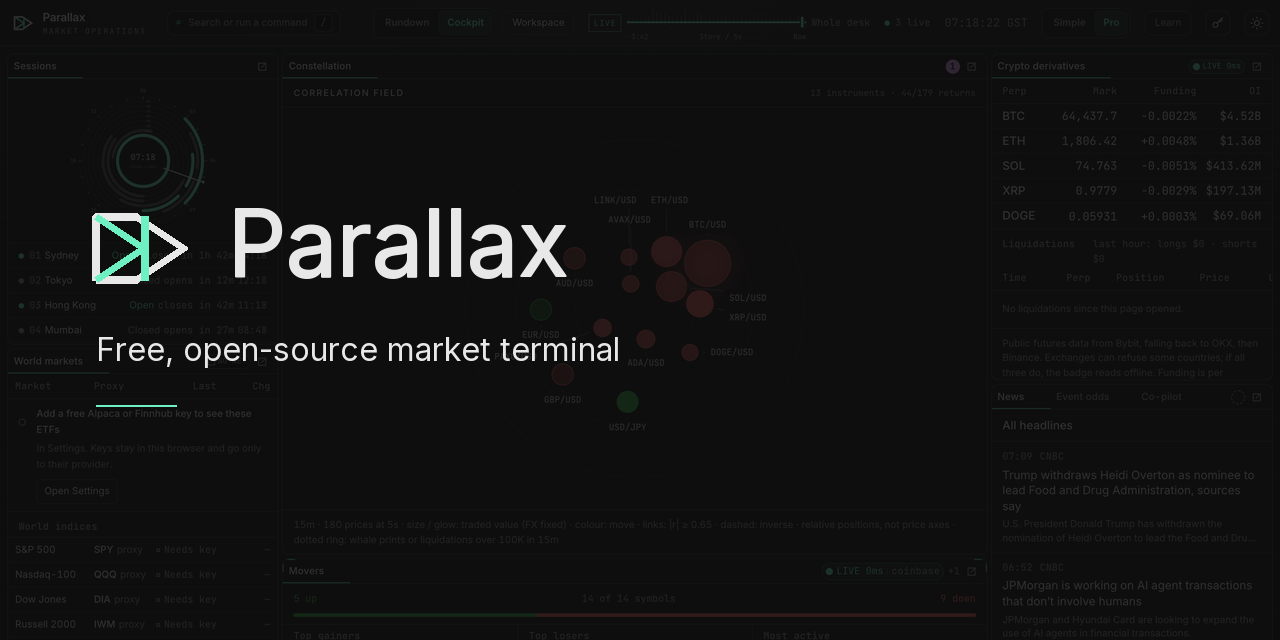
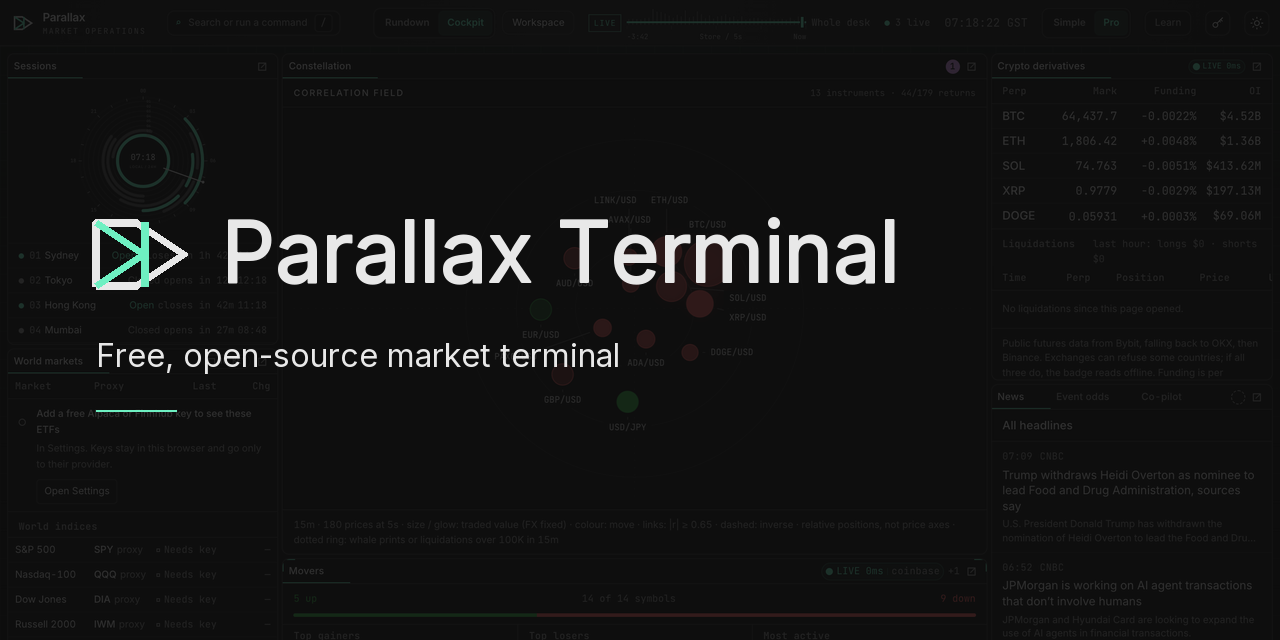
feat: Parallax Terminal at parallax-terminal.pages.dev
- New main address parallax-terminal.pages.dev (Pages project created with --force: wrangler 4.162 otherwise makes a Worker without a pages.dev address). Deploy goes to it plus open-terminal and parallax-markets until 18 Dec 2026.
- Product name "Parallax Terminal" in the page title, manifest name, Open Graph/Twitter tags (with og:site_name and og:url), README title and the social card; "Parallax" stays in the top bar and logo lockup. Tagline "Free, open-source market terminal"; the "more perspective" line is gone.
- Both earlier addresses show the move banner with "Move my layout and keys"; open-terminal mentions the old name, parallax-markets only says it has moved. The new address accepts a handoff from either and posts "ready" to each at its exact origin.
- Worker allows the new origin and its previews; SEC user agent names the new address. Tests: handoff from both old addresses, deployed default origins.

Changed region(s): [[0.0625, 0.3125, 0.7188, 0.4688], [0.0625, 0.5312, 0.5, 0.5938], [0.0625, 0.625, 0.125, 0.6562]]

diff --git a/apps/web/index.html b/apps/web/index.html
@@ -3,32 +3,33 @@
   <head>
     <meta charset="UTF-8" />
     <meta name="viewport" content="width=device-width, initial-scale=1.0" />
-    <title>Parallax</title>
+    <title>Parallax Terminal</title>
     <meta
       name="description"
       content="A free market terminal in your browser: what's happening in markets right now, with every number's source and age."
     />
     <meta property="og:type" content="website" />
-    <meta property="og:url" content="https://parallax-markets.pages.dev/" />
-    <meta property="og:title" content="Parallax — Free, open-source market terminal" />
+    <meta property="og:site_name" content="Parallax Terminal" />
+    <meta property="og:url" content="https://parallax-terminal.pages.dev/" />
+    <meta property="og:title" content="Parallax Terminal" />
     <meta
       property="og:description"
-      content="One market. More perspective. Live markets, a plain-language daily brief, and a full cockpit. Free and open source."
+      content="Free, open-source market terminal: live markets, a plain-language daily brief and a full cockpit, in your browser. Every number shows its source and age."
     />
-    <meta property="og:image" content="https://parallax-markets.pages.dev/social-preview.png" />
+    <meta property="og:image" content="https://parallax-terminal.pages.dev/social-preview.png" />
     <meta property="og:image:width" content="1280" />
     <meta property="og:image:height" content="640" />
     <meta
       property="og:image:alt"
-      content="Parallax — Free, open-source market terminal over Mission Control"
+      content="Parallax Terminal: free, open-source market terminal, over its Mission Control screen"
     />
     <meta name="twitter:card" content="summary_large_image" />
-    <meta name="twitter:title" content="Parallax — Free, open-source market terminal" />
+    <meta name="twitter:title" content="Parallax Terminal" />
     <meta
       name="twitter:description"
-      content="One market. More perspective. Live markets, a plain-language daily brief, and a full cockpit. Free and open source."
+      content="Free, open-source market terminal: live markets, a plain-language daily brief and a full cockpit, in your browser. Every number shows its source and age."
     />
-    <meta name="twitter:image" content="https://parallax-markets.pages.dev/social-preview.png" />
+    <meta name="twitter:image" content="https://parallax-terminal.pages.dev/social-preview.png" />
     <link rel="manifest" href="/manifest.webmanifest" />
     <meta name="theme-color" content="#0d0d0d" media="(prefers-color-scheme: dark)" />
     <meta name="theme-color" content="#f0f0f0" media="(prefers-color-scheme: light)" />

diff --git a/apps/web/src/app/rename.test.ts b/apps/web/src/app/rename.test.ts
@@ -2,7 +2,9 @@ import { afterEach, beforeEach, describe, expect, it, vi } from 'vitest';
 import {
   HANDOFF_TIMEOUT_MS,
   NEW_ORIGIN,
-  OLD_ORIGIN,
+  OLD_ORIGINS,
+  OPEN_TERMINAL_ORIGIN,
+  isOldAddress,
   handoffEntries,
   migrateStorage,
   receiveHandoff,
@@ -100,7 +102,8 @@ describe('handoff between the old and new address', () => {
     vi.useRealTimers();
   });
 
-  it('carries saved entries from the old address to the new one', async () => {
+  it.each(OLD_ORIGINS)('carries saved entries from %s to the new address', async (OLD_ORIGIN) => {
+    expect(isOldAddress(OLD_ORIGIN)).toBe(true);
     const old = new FakeWindow(`${OLD_ORIGIN}/`);
     localStorage.setItem('parallax:layout', '{"dock":2}');
     expect(sendHandoff(asWindow(old))).toBe(true);
@@ -110,7 +113,10 @@ describe('handoff between the old and new address', () => {
 
     localStorage.clear();
     const moved = receiveHandoff(asWindow(fresh));
-    expect(old.posted).toEqual([{ data: { type: 'parallax:handoff-ready' }, origin: OLD_ORIGIN }]);
+    // "Ready" goes to each old address at its exact origin; only the opener's own one arrives.
+    expect(old.posted).toEqual(
+      OLD_ORIGINS.map((origin) => ({ data: { type: 'parallax:handoff-ready' }, origin })),
+    );
 
     // The old window answers the new one only, at its exact origin.
     old.deliver(old.posted[0]?.data, NEW_ORIGIN, fresh);
@@ -129,19 +135,20 @@ describe('handoff between the old and new address', () => {
   });
 
   it('ignores messages from any other origin or window, then gives up', async () => {
-    const opener = new FakeWindow(`${OLD_ORIGIN}/`);
+    const opener = new FakeWindow(`${OPEN_TERMINAL_ORIGIN}/`);
     const fresh = new FakeWindow(`${NEW_ORIGIN}/?handoff=1`);
     fresh.opener = opener;
     const moved = receiveHandoff(asWindow(fresh));
     const entries = { type: 'parallax:handoff-entries', entries: { 'parallax:keys': 'stolen' } };
     fresh.deliver(entries, 'https://evil.example', opener);
-    fresh.deliver(entries, OLD_ORIGIN, new FakeWindow('https://other/'));
+    fresh.deliver(entries, OPEN_TERMINAL_ORIGIN, new FakeWindow('https://other/'));
     vi.advanceTimersByTime(HANDOFF_TIMEOUT_MS);
     await expect(moved).resolves.toBe(false);
     expect(localStorage.getItem('parallax:keys')).toBeNull();
   });
 
   it('does nothing on an ordinary visit', () => {
+    expect(isOldAddress(NEW_ORIGIN)).toBe(false);
     expect(receiveHandoff(asWindow(new FakeWindow(`${NEW_ORIGIN}/`)))).toBeNull();
     expect(withoutHandoff(`${NEW_ORIGIN}/?handoff=1#w=abc`)).toBe(`${NEW_ORIGIN}/#w=abc`);
   });

diff --git a/apps/web/src/app/rename.ts b/apps/web/src/app/rename.ts
@@ -1,11 +1,16 @@
 import { isObject } from '../feeds/adapters/parse';
 
 /**
- * The rename (18 Nov 2026): Open Terminal became Parallax, at a new address. The old address
- * serves the same app with a banner until 18 Dec 2026.
+ * The move (18 Nov 2026): Open Terminal became Parallax Terminal, at a new address. Both earlier
+ * addresses (the original open-terminal and the short-lived parallax-markets) serve the same app
+ * with a banner until 18 Dec 2026.
  */
-export const NEW_ORIGIN = 'https://parallax-markets.pages.dev';
-export const OLD_ORIGIN = 'https://open-terminal.pages.dev';
+export const NEW_ORIGIN = 'https://parallax-terminal.pages.dev';
+export const OPEN_TERMINAL_ORIGIN = 'https://open-terminal.pages.dev';
+export const OLD_ORIGINS: readonly string[] = [
+  OPEN_TERMINAL_ORIGIN,
+  'https://parallax-markets.pages.dev',
+];
 export const OLD_ADDRESS_CLOSES = '18 December 2026';
 
 const OLD_PREFIX = 'open-terminal:';
@@ -37,7 +42,7 @@ export function migrateStorage(storage: Storage): void {
 }
 
 export function isOldAddress(origin: string): boolean {
-  return origin === OLD_ORIGIN;
+  return OLD_ORIGINS.includes(origin);
 }
 
 /** This app's saved entries (layout, preferences, alerts, keys), to carry to the new address. */
@@ -97,7 +102,7 @@ export function receiveHandoff(win: Window = window): Promise<boolean> | null {
       resolve(moved);
     };
     const onMessage = (event: MessageEvent) => {
-      if (event.origin !== OLD_ORIGIN || event.source !== opener) return;
+      if (!OLD_ORIGINS.includes(event.origin) || event.source !== opener) return;
       const entries = handoffEntries(event.data);
       if (!entries) return;
       for (const [key, value] of entries) win.localStorage.setItem(key, value);
@@ -107,7 +112,8 @@ export function receiveHandoff(win: Window = window): Promise<boolean> | null {
     const timer = win.setTimeout(() => {
       finish(false);
     }, HANDOFF_TIMEOUT_MS);
-    opener.postMessage({ type: READY }, OLD_ORIGIN);
+    // The opener is one of the old addresses; each post reaches it only at its own origin.
+    for (const origin of OLD_ORIGINS) opener.postMessage({ type: READY }, origin);
   });
 }
 

diff --git a/apps/edge/src/index.test.ts b/apps/edge/src/index.test.ts
@@ -5,9 +5,9 @@ import fed from './fixtures/fed.xml?raw';
 import { handle, originAllowed } from './index';
 import { filterNews, type Env } from './routes';
 
-const SITE = 'https://parallax-markets.pages.dev';
+const SITE = 'https://parallax-terminal.pages.dev';
 const ENV: Env = {
-  ALLOWED_ORIGINS: `http://localhost:5173,${SITE},https://*.parallax-markets.pages.dev`,
+  ALLOWED_ORIGINS: `http://localhost:5173,${SITE},https://*.parallax-terminal.pages.dev`,
   FRED_API_KEY: 'fred-secret-key',
   SEC_USER_AGENT: 'Parallax admin@example.com',
 };
@@ -45,15 +45,20 @@ const get = (path: string, origin: string | null = SITE) =>
 describe('origin check', () => {
   it('allows the listed origins and their preview subdomains only', () => {
     expect(originAllowed(SITE, ENV.ALLOWED_ORIGINS)).toBe(true);
-    expect(originAllowed('https://v2-visual.parallax-markets.pages.dev', ENV.ALLOWED_ORIGINS)).toBe(
-      true,
-    );
-    expect(originAllowed('https://evil-parallax-markets.pages.dev', ENV.ALLOWED_ORIGINS)).toBe(
+    expect(
+      originAllowed('https://v2-visual.parallax-terminal.pages.dev', ENV.ALLOWED_ORIGINS),
+    ).toBe(true);
+    expect(originAllowed('https://evil-parallax-terminal.pages.dev', ENV.ALLOWED_ORIGINS)).toBe(
       false,
     );
-    expect(originAllowed('https://parallax-markets.pages.dev.evil.com', ENV.ALLOWED_ORIGINS)).toBe(
+    expect(originAllowed('https://parallax-terminal.pages.dev.evil.com', ENV.ALLOWED_ORIGINS)).toBe(
       false,
     );
+    // The deployed default keeps both earlier addresses until 18 Dec 2026.
+    for (const old of ['https://parallax-markets.pages.dev', 'https://open-terminal.pages.dev']) {
+      expect(originAllowed(old, undefined)).toBe(true);
+    }
+    expect(originAllowed(SITE, undefined)).toBe(true);
   });
 
   it('refuses requests without an allowed Origin', async () => {

diff --git a/apps/web/src/app/RenameBanner.tsx b/apps/web/src/app/RenameBanner.tsx
@@ -1,16 +1,20 @@
 import { useState } from 'react';
 import '../design/rename.css';
-import { NEW_ORIGIN, OLD_ADDRESS_CLOSES, sendHandoff } from './rename';
+import { NEW_ORIGIN, OLD_ADDRESS_CLOSES, OPEN_TERMINAL_ORIGIN, sendHandoff } from './rename';
 
 const NEW_HOST = new URL(NEW_ORIGIN).host;
 
-/** Shown only at the old address: where Parallax lives now, and a way to take your setup there. */
+/** Shown only at an old address: where Parallax Terminal lives now, and a way to take your setup there. */
 export function RenameBanner() {
   const [blocked, setBlocked] = useState(false);
+  // Visitors of the original address knew the old name; the interim address only moved.
+  const renamed = window.location.origin === OPEN_TERMINAL_ORIGIN;
   return (
     <div className="rename-banner" role="region" aria-label="New address">
       <p>
-        Open Terminal is now <strong>Parallax</strong>, at{' '}
+        {renamed ? 'Open Terminal is now ' : ''}
+        <strong>Parallax Terminal</strong>
+        {renamed ? ', at ' : ' has moved to '}
         <a href={NEW_ORIGIN} target="_blank" rel="noreferrer">
           {NEW_HOST}
         </a>

diff --git a/apps/edge/src/index.ts b/apps/edge/src/index.ts
@@ -19,7 +19,7 @@ export const CACHE_SECONDS = { news: 120, fred: 3600, sec: 600, calendar: 21_600
 type Route = keyof typeof CACHE_SECONDS;
 
 const DEFAULT_ORIGINS =
-  'http://localhost:5173,http://127.0.0.1:5173,https://parallax-markets.pages.dev,https://*.parallax-markets.pages.dev,https://open-terminal.pages.dev,https://*.open-terminal.pages.dev';
+  'http://localhost:5173,http://127.0.0.1:5173,https://parallax-terminal.pages.dev,https://*.parallax-terminal.pages.dev,https://parallax-markets.pages.dev,https://*.parallax-markets.pages.dev,https://open-terminal.pages.dev,https://*.open-terminal.pages.dev';
 
 /** Whether `origin` is on the list; `https://*.host` allows any subdomain (Pages previews). */
 export function originAllowed(origin: string, list: string | undefined): boolean {

diff --git a/apps/edge/src/routes.ts b/apps/edge/src/routes.ts
@@ -80,7 +80,8 @@ export async function allNews(env: Env): Promise<RouteResult> {
       try {
         const response = await fetch(feed.url, {
           headers: {
-            'User-Agent': env.SEC_USER_AGENT ?? 'Parallax (+https://parallax-markets.pages.dev)',
+            'User-Agent':
+              env.SEC_USER_AGENT ?? 'Parallax Terminal (+https://parallax-terminal.pages.dev)',
             Accept: 'application/rss+xml, application/xml',
           },
         });

diff --git a/docs/architecture.md b/docs/architecture.md
@@ -830,21 +830,24 @@ meetings are not FRED releases and are not listed.
 
 ## Addresses and the rename
 
-Open Terminal became Parallax on 18 Nov 2026, at `https://parallax-markets.pages.dev`
-(`parallax.pages.dev` was taken). `deploy.yml` deploys the same build to two Pages projects,
-`parallax-markets` and the old `open-terminal`, until 18 Dec 2026; the Worker allows both origins
-until then. `app/rename.ts` holds the addresses and the two moves:
+Open Terminal became Parallax Terminal on 18 Nov 2026, at `https://parallax-terminal.pages.dev`
+(`parallax.pages.dev` was taken). For a few hours that day it lived at `parallax-markets.pages.dev`.
+`deploy.yml` deploys the same build to three Pages projects, `parallax-terminal` and the two
+earlier `open-terminal` and `parallax-markets`, until 18 Dec 2026; the Worker allows all three
+origins until then. `app/rename.ts` holds the addresses and the two moves:
 
 - **Same address.** `app/storageMigration.ts` is the first import of `main.tsx`, so before any
   store reads its saved state, every `open-terminal:*` entry in local storage becomes
   `parallax:*` (an entry already under the new name wins). The theme script in `index.html`
   reads the old theme key too, for the first paint. Workspace files and share links made before
   the rename (`app: 'open-terminal'`) still load.
-- **New address.** Storage belongs to one address, so the new site starts empty. At the old
-  address a banner above the top bar links to the new one and offers "Move my layout and keys":
-  it opens `parallax-markets.pages.dev/?handoff=1`, which (before rendering, so before anything
-  saves) posts "ready" to its opener at the old origin. The old page answers that window only, at
-  the new origin exactly, with its `parallax:*` entries; the new page accepts them only from its
-  opener at the old origin, only `parallax:*` keys with string values, saves them and reloads.
+- **New address.** Storage belongs to one address, so the new site starts empty. At either earlier
+  address a banner above the top bar links to the new one and offers "Move my layout and keys"
+  (at open-terminal it also gives the old name): it opens `parallax-terminal.pages.dev/?handoff=1`,
+  which (before rendering, so before anything saves) posts "ready" to its opener at each earlier
+  origin, so only the real opener's own origin receives it. The old page answers that window only,
+  at the new origin exactly, with its `parallax:*` entries; the new page accepts them only from
+  its opener at an earlier origin, only `parallax:*` keys with string values, saves them and
+  reloads.
   After 5 s without an answer it opens as usual. Keys move window to window inside the same
   browser and never cross the network.

diff --git a/README.md b/README.md
@@ -1,18 +1,18 @@
 <p>
   <picture>
     <source media="(prefers-color-scheme: dark)" srcset="docs/brand/parallax-mark.svg" />
-    <img src="docs/brand/parallax-mark-light.svg" alt="Parallax logo" width="64" height="64" />
+    <img src="docs/brand/parallax-mark-light.svg" alt="Parallax Terminal logo" width="64" height="64" />
   </picture>
 </p>
 
-# Parallax
+# Parallax Terminal
 
 A free, open-source market terminal that runs entirely in your browser:
 live crypto, FX, US stocks on your own key, rates and macro, news and
 filings — in one dockable cockpit where every number shows its source and
 its age.
 
-**Live:** <https://parallax-markets.pages.dev> — no account, no install. Crypto,
+**Live:** <https://parallax-terminal.pages.dev> — no account, no install. Crypto,
 FX, perpetual futures, macro and news work the moment the page loads.
 
 > Parallax shows market data as delivered by its public sources. It is
@@ -149,7 +149,7 @@ Two limits, stated plainly:
 
 ## Using it
 
-1. Open <https://parallax-markets.pages.dev>. The Rundown opens first; **Open
+1. Open <https://parallax-terminal.pages.dev>. The Rundown opens first; **Open
    the full cockpit** shows the panels (Simple or Pro, switched in the top bar).
 2. For US stocks, open **Settings** (the key icon) and paste a free
    [Alpaca](https://alpaca.markets) or [Finnhub](https://finnhub.io) key.
@@ -205,6 +205,6 @@ their licences (TradingView's chart library, the Inter and JetBrains Mono
 fonts, React, dockview, zustand) are listed in [NOTICE](NOTICE); the chart
 panel carries the required "Charting by TradingView" attribution.
 
-Parallax was called Open Terminal until 18 November 2026; the old address,
-open-terminal.pages.dev, points here until 18 December 2026. This project is not affiliated
-with Bloomberg LP or any data provider it displays.
+Parallax Terminal was called Open Terminal until 18 November 2026; the earlier addresses,
+open-terminal.pages.dev and parallax-markets.pages.dev, point here until 18 December 2026.
+This project is not affiliated with Bloomberg LP or any data provider it displays.

diff --git a/docs/design.md b/docs/design.md
@@ -182,7 +182,7 @@ figures everywhere. Both are SIL Open Font License 1.1 and self-hosted through F
   colour around a body, and on the tape a 2 px text-colour bar and bold weight on the row, with a
   muted summary line that turns text colour (and gains a ◆) while there is any. Neutral, never up
   or down, and static: nothing flashes or pulses when a whale prints.
-- At the pre-rename address only, a banner row above the top bar names the new address and
+- At the two earlier addresses only, a banner row above the top bar names the new address and
   offers "Move my layout and keys": a 6% mint tint over the panel (interface information), mint
   link and outlined button, no shadow or motion.
 - The Rundown (E1) is one calm page on `--bg`: sections are `--panel` cards with a hairline,
